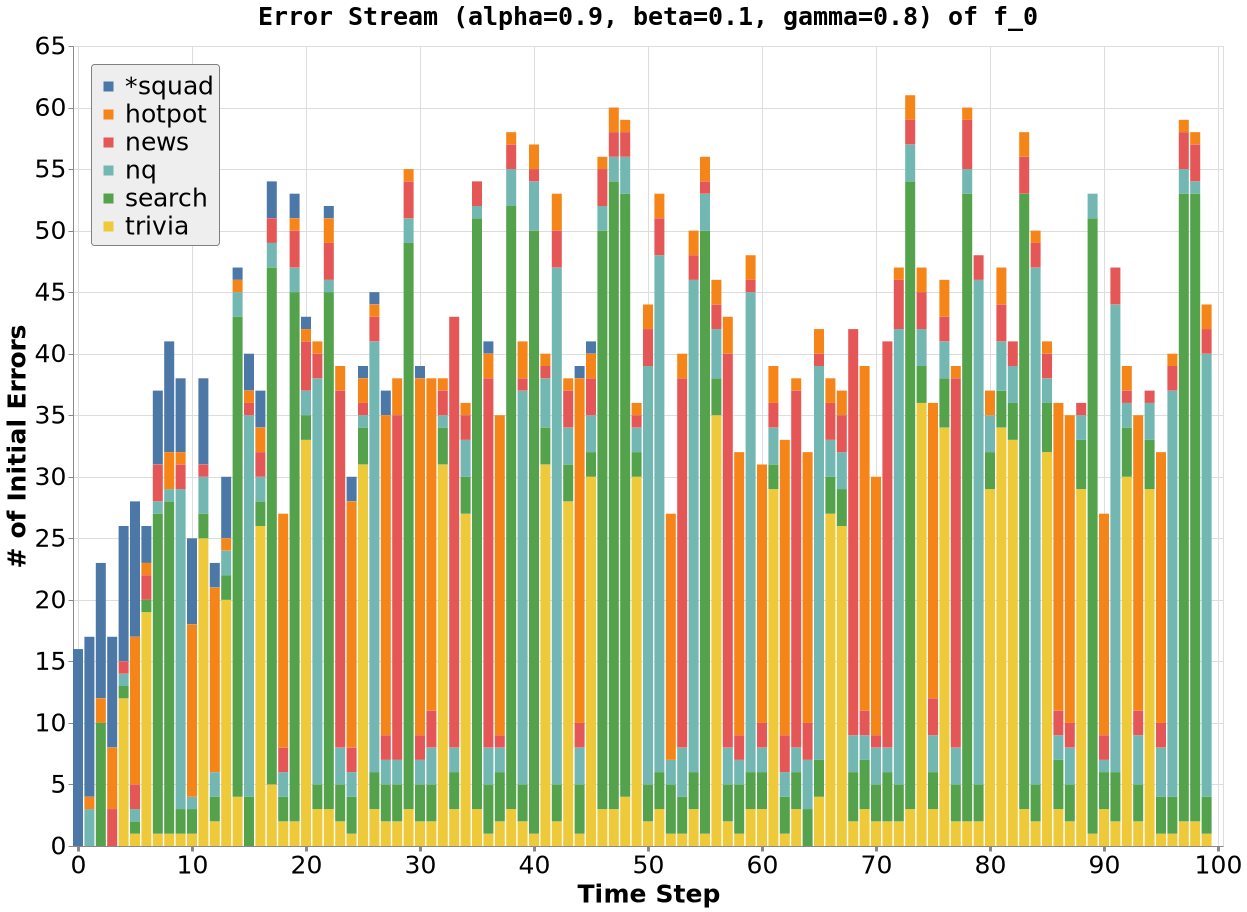
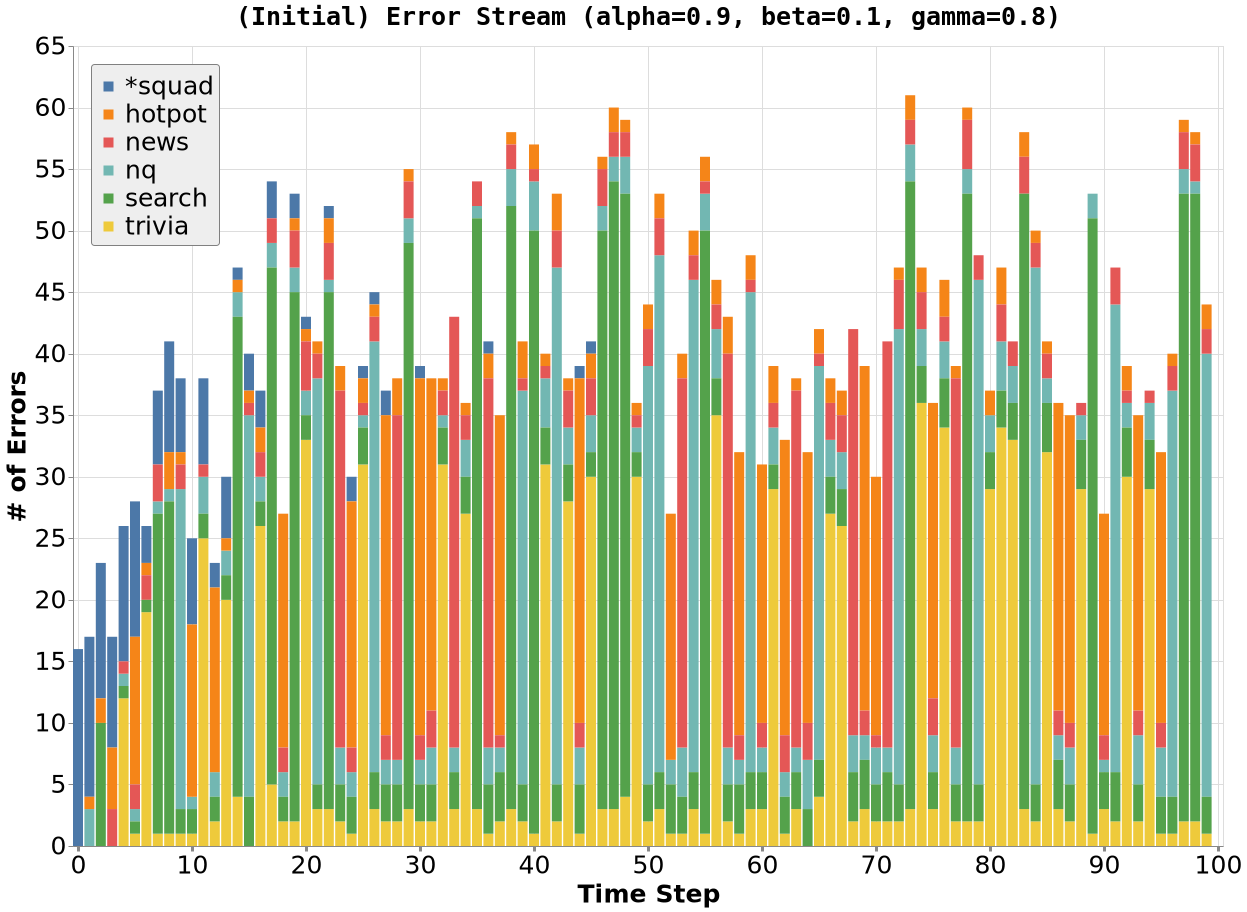
update figures

Changed region(s): [[0.1828, 0.0, 0.8532, 0.0307], [0.0, 0.3377, 0.0305, 0.614]]

diff --git a/semanticdebugger/benchmark_gen/sample_submission_streams.py b/semanticdebugger/benchmark_gen/sample_submission_streams.py
@@ -123,7 +123,7 @@ def visualize_stream(submission_stream, data_names, cfg):
     fig1 =  draw_stacked_bars(df=submission_stat_pd, fig_title=f"Submission Stream ({title_str})", y_scale=[0., 65], x_key="time_step", y_key="sum(num_examples)", y_title="# of Examples")
     fig1.save(f'figures/mrqa.submission.{filename_str}.png', scale_factor=2.0)
     init_error_stat_pd = pd.DataFrame(init_error_stat)
-    fig2 =  draw_stacked_bars(df=init_error_stat_pd, fig_title=f"Error Stream ({title_str}) of f_0", y_scale=[0., 65], x_key="time_step", y_key="sum(num_examples)", y_title="# of Initial Errors")
+    fig2 =  draw_stacked_bars(df=init_error_stat_pd, fig_title=f"(Initial) Error Stream ({title_str})", y_scale=[0., 65], x_key="time_step", y_key="sum(num_examples)", y_title="# of Errors")
     fig2.save(f'figures/mrqa.init_error.{filename_str}.png', scale_factor=2.0)    
     return 
 

diff --git a/semanticdebugger/notebooks/draw_utils.py b/semanticdebugger/notebooks/draw_utils.py
@@ -30,7 +30,8 @@ def draw_stacked_bars(df, y_scale=[0, 1], fig_title="", y_title="Y Title", x_key
                                             color=color,).properties(title=fig_title)
 
     fig = alt.layer(fig).resolve_scale()
-    fig = fig.properties(width=width, height=height).configure_bar(binSpacing=0, width=10).configure_axis(
+    fig = fig.properties(width=width, height=height).configure_title(fontSize=50,
+    ).configure_bar(binSpacing=0, width=10).configure_axis(
         labelFontSize=25,
         titleFontSize=25,  
     ).configure_legend(titleFontSize=0, labelFontSize=25, orient='top-left', strokeColor='gray',
